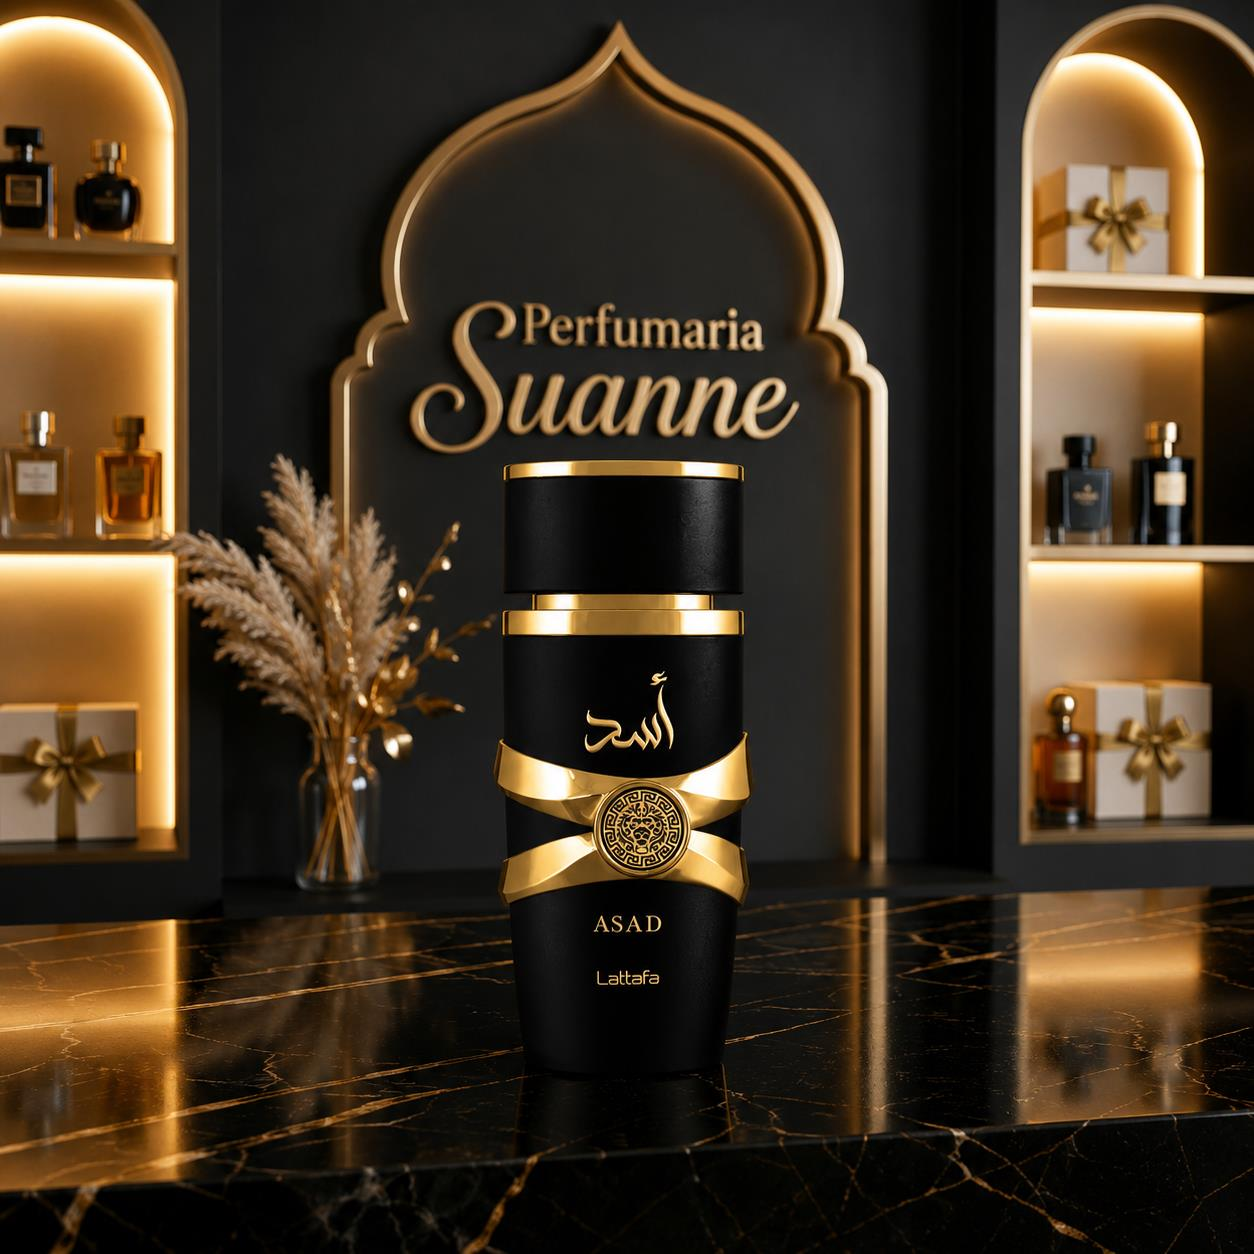
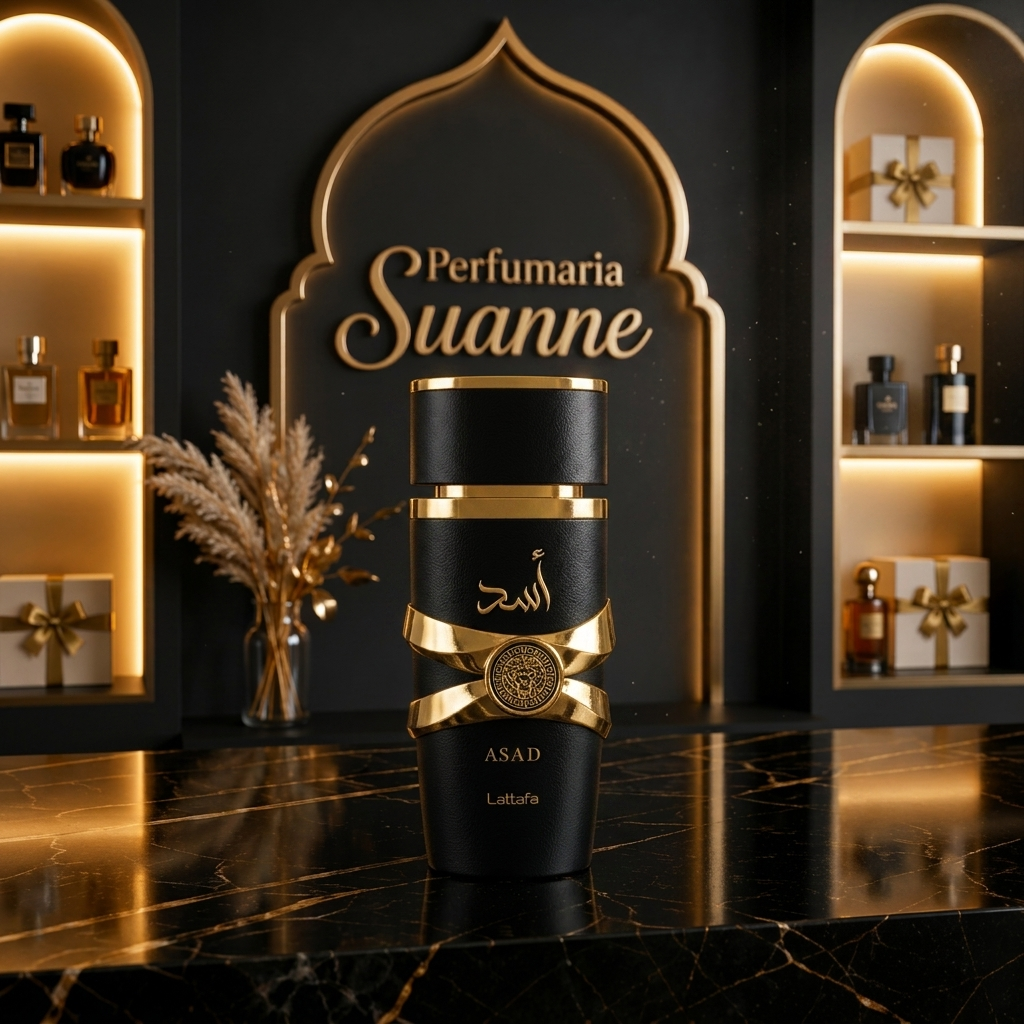
feat: atualiza fotos de 7 perfumes com novas imagens

Changed region(s): [[0.375, 0.3438, 0.625, 0.9062], [0.9375, 0.0, 1.0, 0.3125]]

diff --git a/lib/products.ts b/lib/products.ts
@@ -81,7 +81,7 @@ export const products: Product[] = [
     rating: 4.7,
     reviews: 64,
     size: "85ml",
-    image: "/perfumes/durrat-al-aroos.jpg",
+    image: "/perfumes/Durrat-Al-Aroos (2).jpg",
     featured: false,
     inStock: true,
     description:
@@ -102,7 +102,7 @@ export const products: Product[] = [
     rating: 4.9,
     reviews: 486,
     size: "100ml",
-    image: "/perfumes/khamrah.jpg",
+    image: "/perfumes/Khamrah.jpg",
     badge: "Best Seller",
     featured: true,
     inStock: true,
@@ -123,7 +123,7 @@ export const products: Product[] = [
     rating: 4.7,
     reviews: 89,
     size: "100ml",
-    image: "/perfumes/attar-al-wesal.jpg",
+    image: "/perfumes/Attar-Al-Wesal.jpg",
     featured: false,
     inStock: true,
     description:
@@ -144,7 +144,7 @@ export const products: Product[] = [
     rating: 4.8,
     reviews: 231,
     size: "100ml",
-    image: "/perfumes/asad.jpg",
+    image: "/perfumes/Asad.jpg",
     badge: "Favorito",
     featured: true,
     inStock: true,
@@ -165,7 +165,7 @@ export const products: Product[] = [
     rating: 4.7,
     reviews: 156,
     size: "100ml",
-    image: "/perfumes/fakhar-black.png",
+    image: "/perfumes/Fakhar Black.jpg",
     featured: false,
     inStock: true,
     description:
@@ -185,7 +185,7 @@ export const products: Product[] = [
     rating: 4.7,
     reviews: 158,
     size: "60ml",
-    image: "/perfumes/ana-abiyedh-rouge.png",
+    image: "/perfumes/ana-abiyedh-rouge.jpg",
     badge: "Novo",
     featured: false,
     inStock: true,
@@ -206,7 +206,7 @@ export const products: Product[] = [
     rating: 4.8,
     reviews: 52,
     size: "100ml",
-    image: "/perfumes/afeef.png",
+    image: "/perfumes/Afeef.jpg",
     badge: "Novo",
     featured: false,
     inStock: true,
